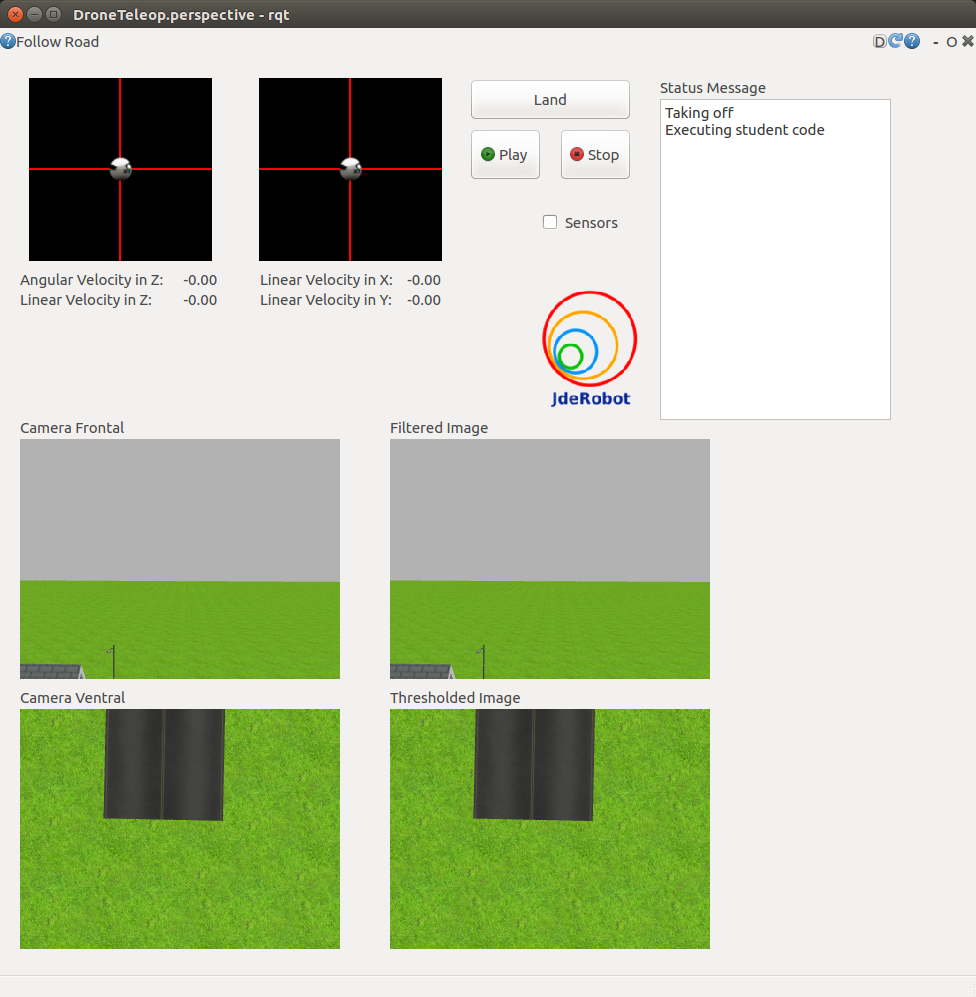
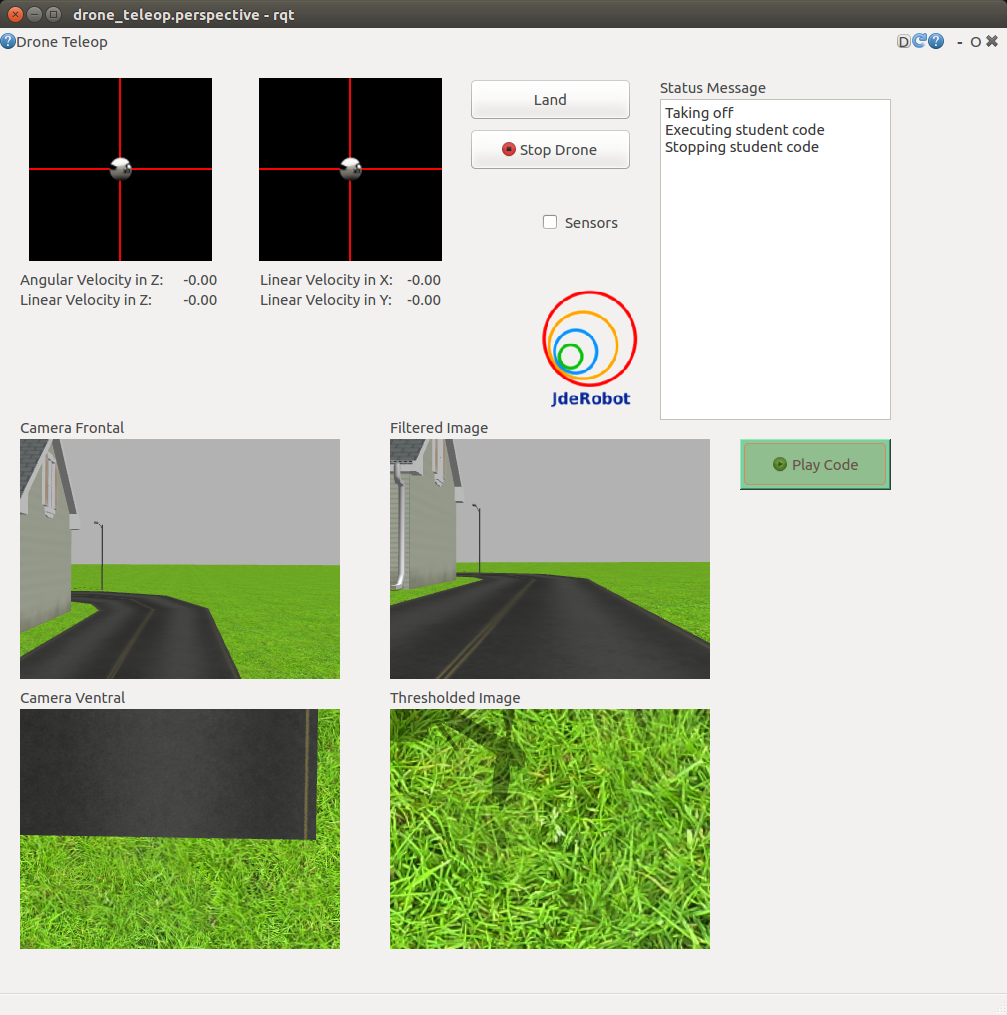
Imported upstream version '1.0.0' of 'upstream'

diff --git a/rqt_drone_teleop/src/rqt_drone_teleop/drone_teleop.py b/rqt_drone_teleop/src/rqt_drone_teleop/drone_teleop.py
@@ -187,6 +187,8 @@ class DroneTeleop(Plugin):
 		rospy.loginfo('Stopping Drone')
 		self.teleop_stick_1.stop()
 		self.teleop_stick_2.stop()
+		if self.play_code_flag:
+			self.call_play()
 		for i in range(5):
 			self.shared_twist_msg = Twist()
 			self.twist_pub.publish(self.shared_twist_msg)

diff --git a/rqt_drone_teleop/CHANGELOG.rst b/rqt_drone_teleop/CHANGELOG.rst
@@ -2,6 +2,14 @@
 Changelog for package rqt_drone_teleop
 ^^^^^^^^^^^^^^^^^^^^^^^^^^^^^^^^^^^^^^
 
+1.0.0 (2019-08-01)
+------------------
+* corrected dependancies
+* stop drone button now also stops code
+* updated gui image
+* removed launch and perspective
+* Contributors: Nikhil Khedekar
+
 0.0.1 (2019-07-20)
 ------------------
 * updated makefile

diff --git a/drone_wrapper/CHANGELOG.rst b/drone_wrapper/CHANGELOG.rst
@@ -2,6 +2,11 @@
 Changelog for package drone_wrapper
 ^^^^^^^^^^^^^^^^^^^^^^^^^^^^^^^^^^^
 
+1.0.0 (2019-08-01)
+------------------
+* corrected dependancies
+* Contributors: Nikhil Khedekar
+
 0.0.1 (2019-07-20)
 ------------------
 * updated makefile
